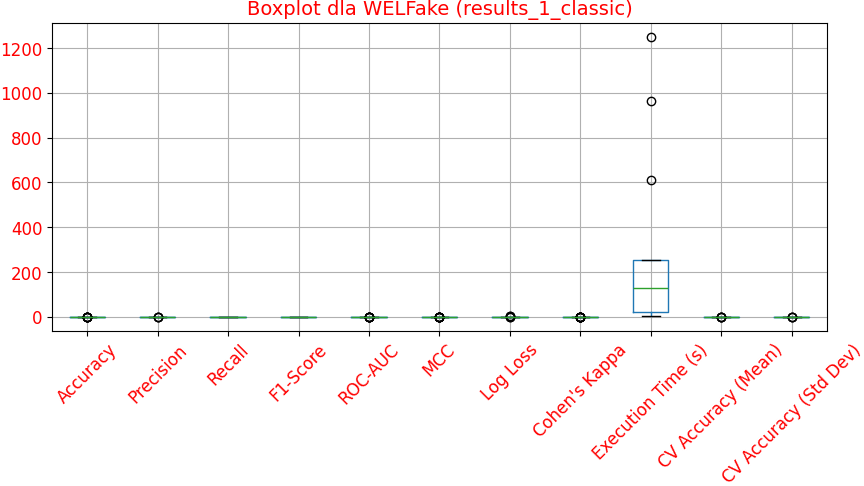
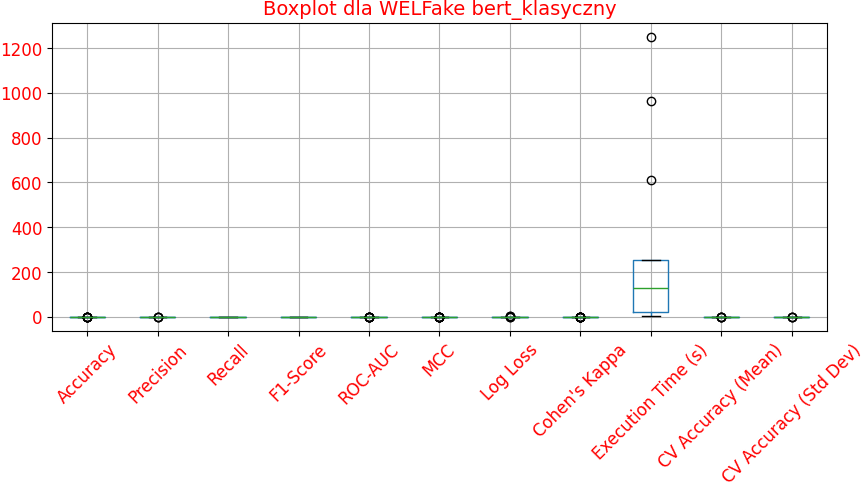
Changed textx for boxplot

Changed region(s): [[0.2812, 0.0, 0.75, 0.0309]]

diff --git a/make_tests.py b/make_tests.py
@@ -326,7 +326,7 @@ for folder in folders:
         if len(dataset_data) > 2:
             plt.figure(figsize=(10, 4))  # Zmniejszona wysokość wykresu z 6 na 4
             dataset_data.boxplot(column=numeric_columns)
-            plt.title(f"Boxplot dla {dataset} ({folder})", fontsize=14, color='red')  # Zwiększona czcionka i kolor czerwony
+            plt.title(f"Boxplot dla {dataset} {folder.replace('results_1', 'bert').replace('results_2', 'roberta').replace('results_3', 'sbert').replace('classic', 'klasyczny')}", fontsize=14, color='red')
             plt.xticks(rotation=45, fontsize=12, color='red')  # Zwiększona czcionka i kolor czerwony
             plt.yticks(fontsize=12, color='red')  # Zwiększona czcionka i kolor czerwony
             plt.savefig(os.path.join(dataset_output_dir, f"{dataset}_boxplot.png"), bbox_inches='tight', pad_inches=0)
